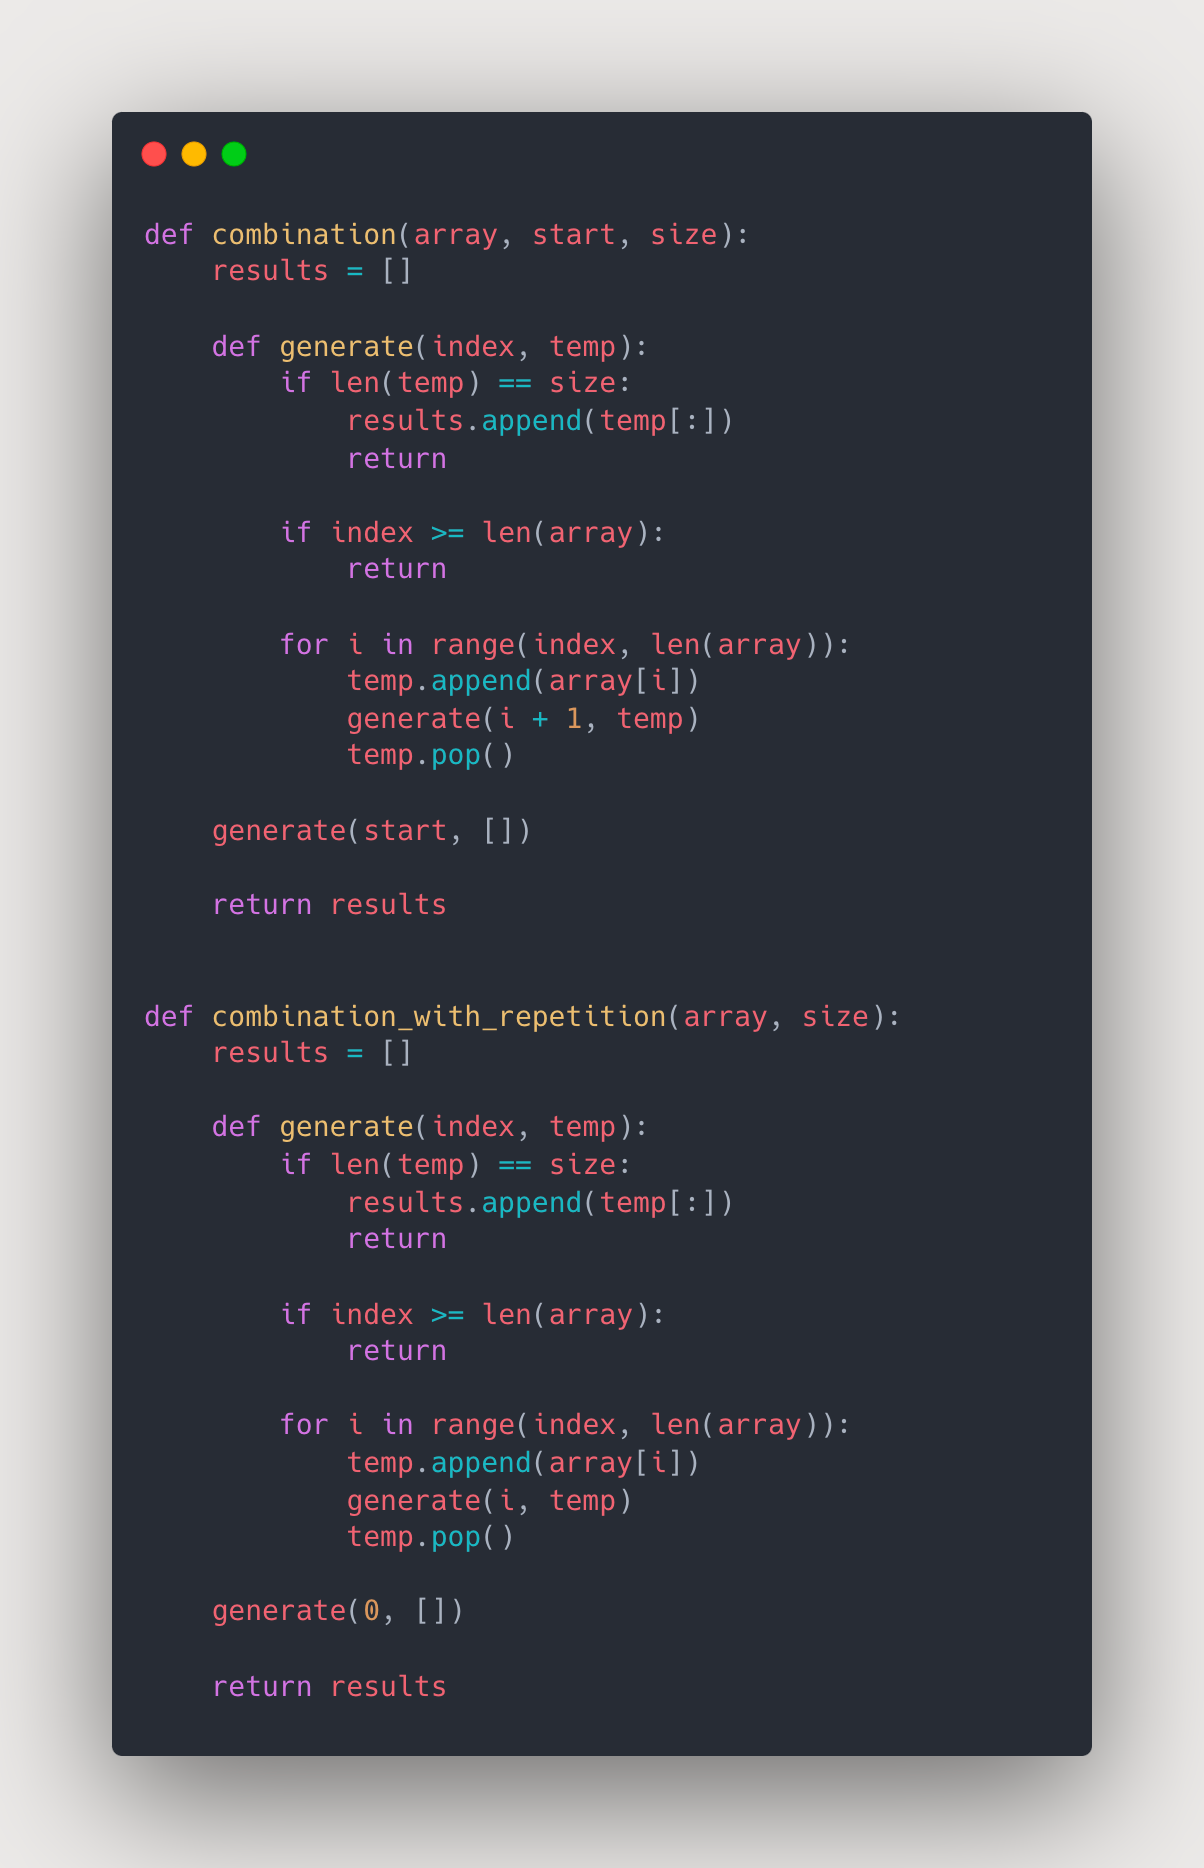
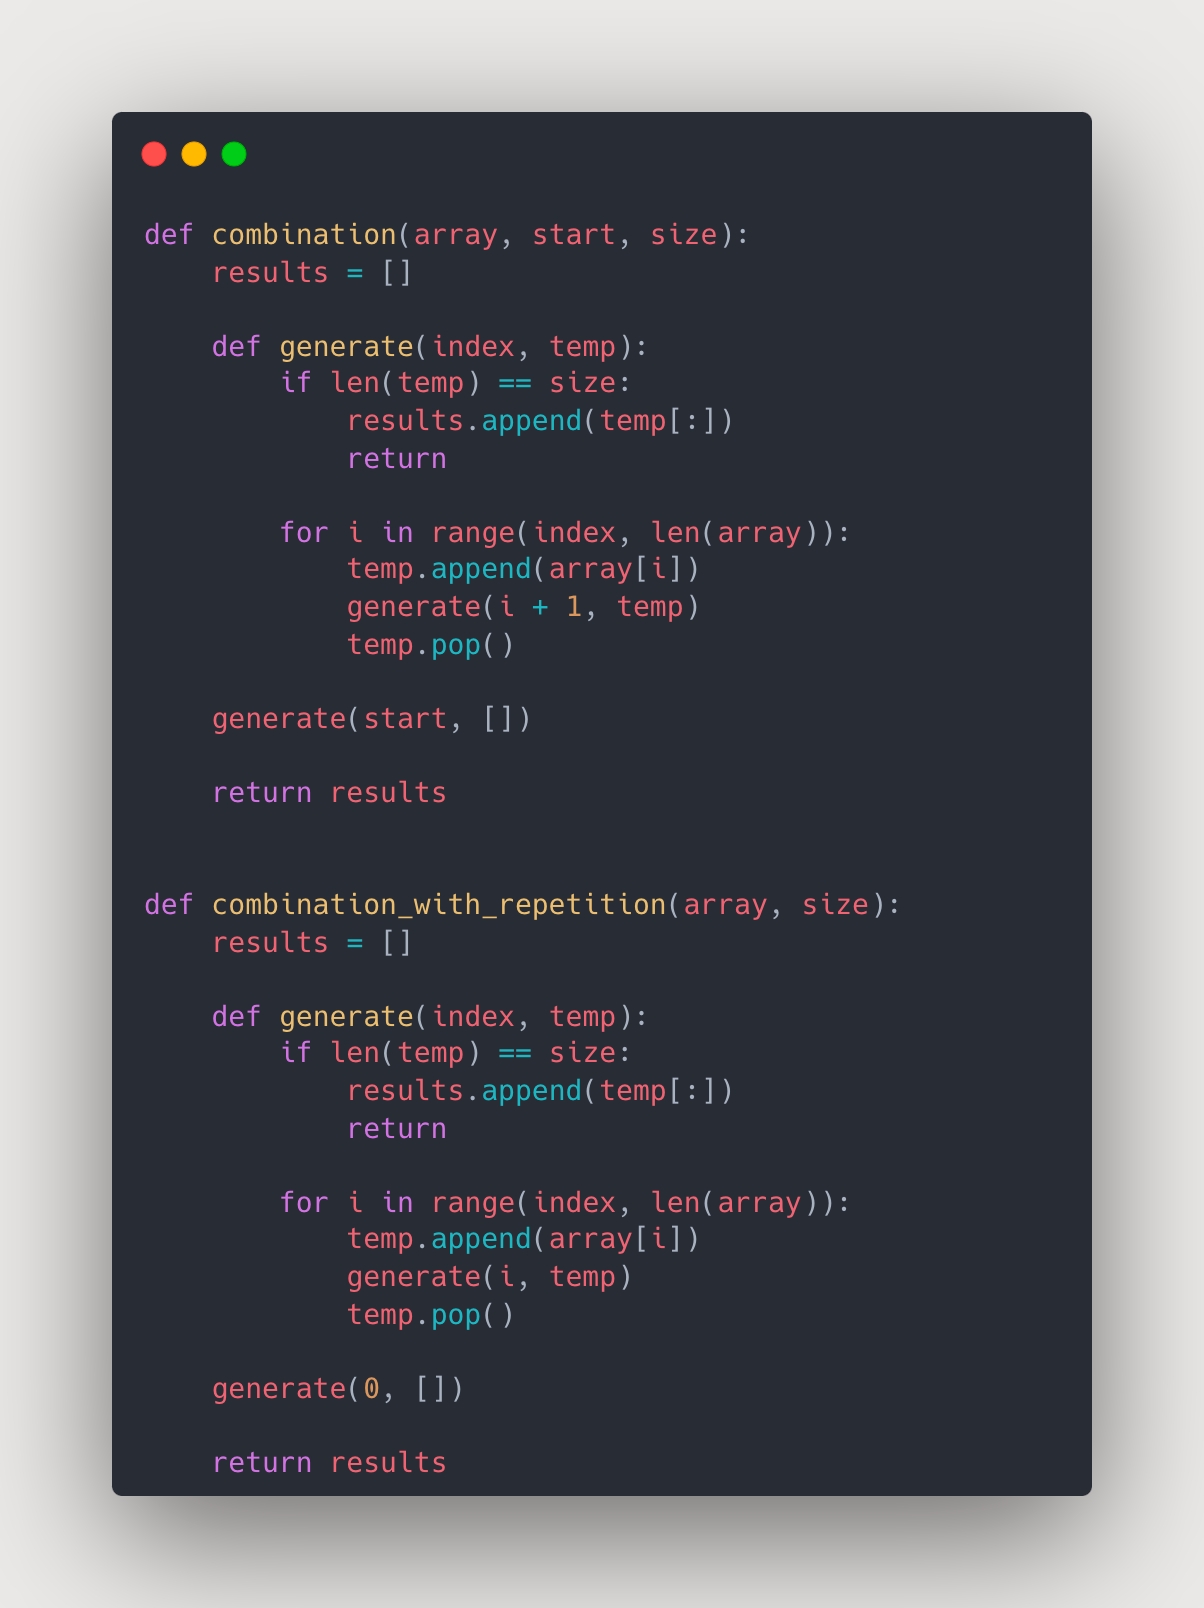
refactor combination

diff --git a/implementation/combination.py b/implementation/combination.py
@@ -6,9 +6,6 @@ def combination(array, start, size):
             results.append(temp[:])
             return
 
-        if index >= len(array):
-            return
-
         for i in range(index, len(array)):
             temp.append(array[i])
             generate(i + 1, temp)
@@ -25,9 +22,6 @@ def combination_with_repetition(array, size):
     def generate(index, temp):
         if len(temp) == size:
             results.append(temp[:])
-            return
-
-        if index >= len(array):
             return
 
         for i in range(index, len(array)):
